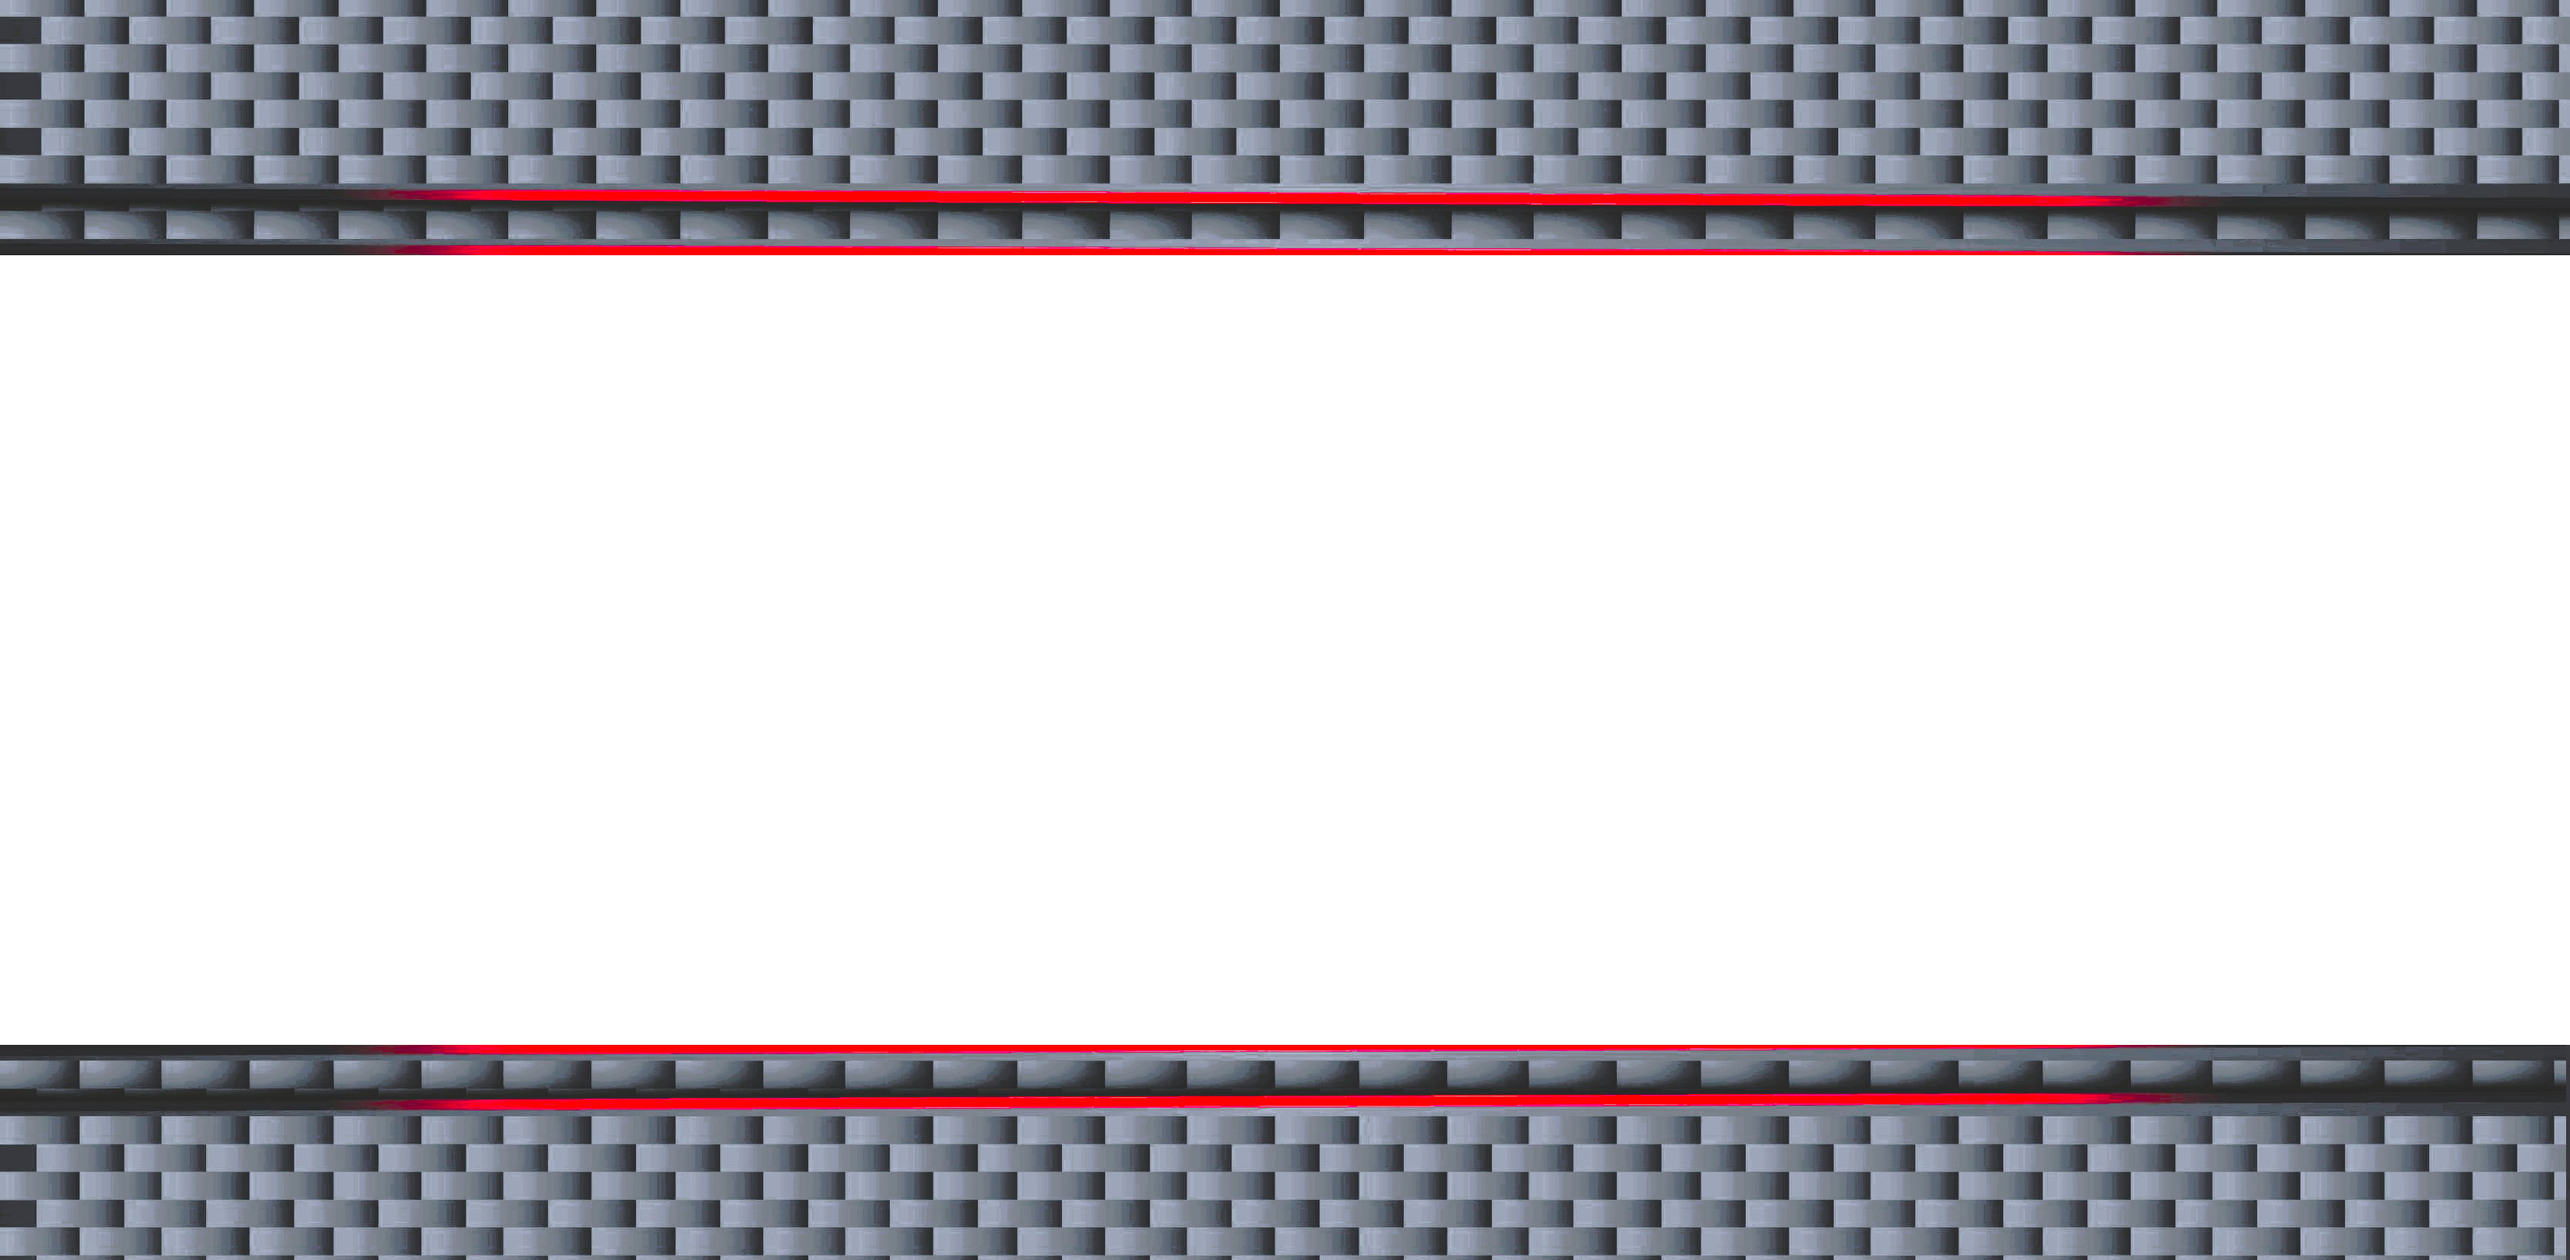
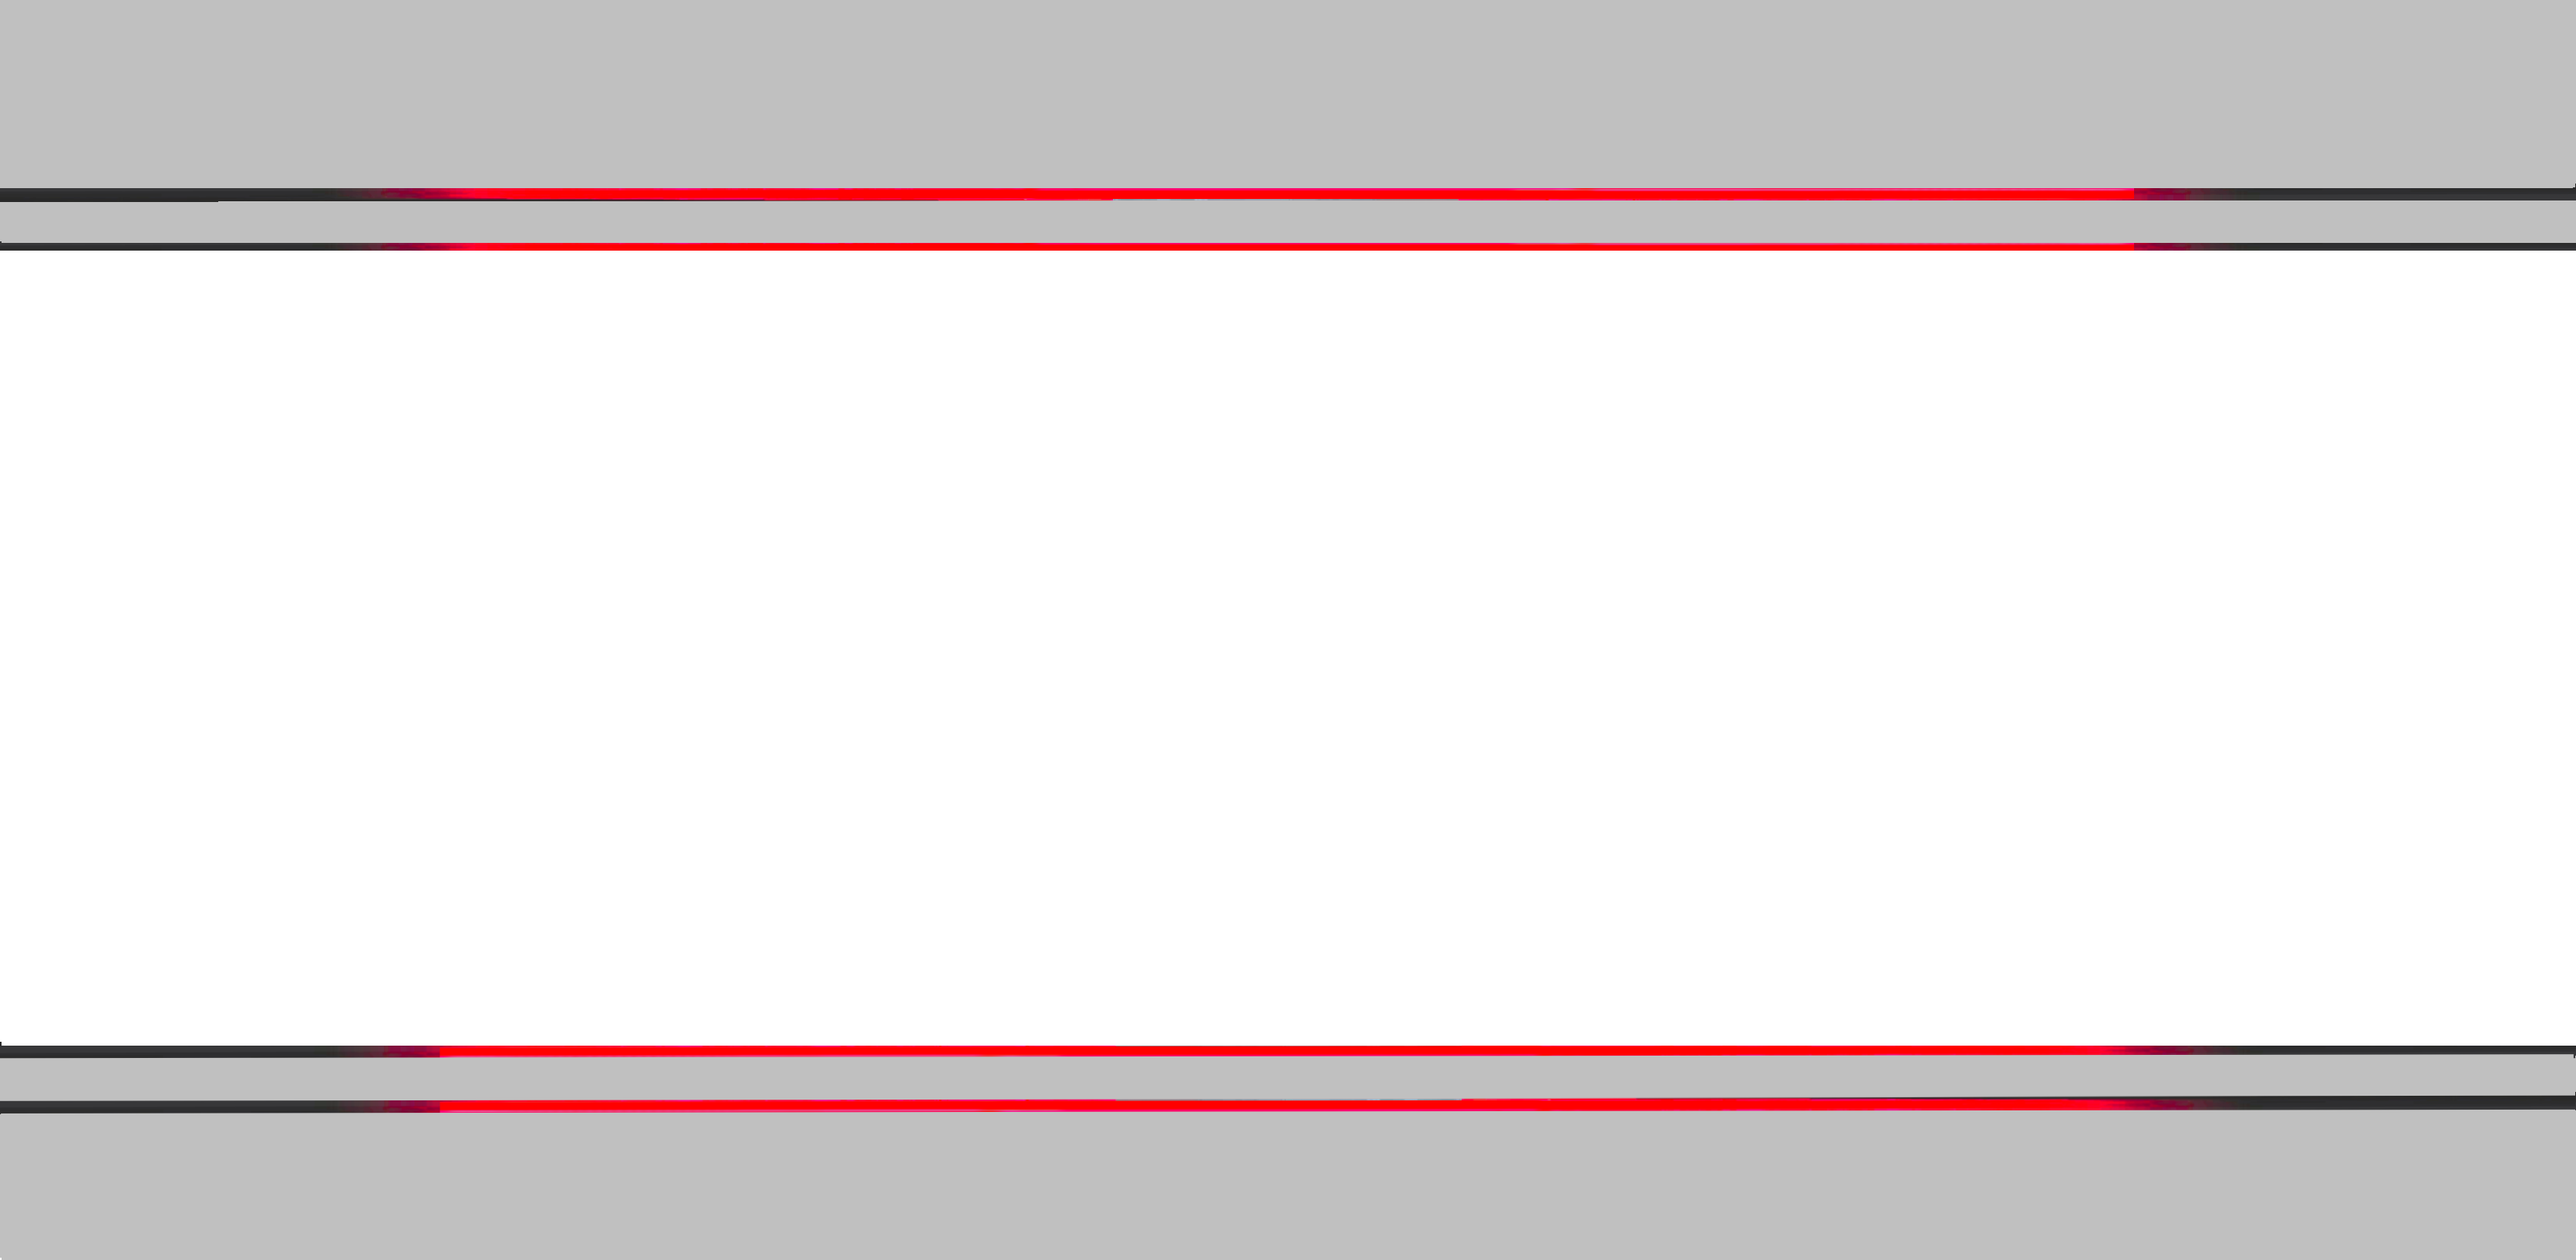
Adding changes

diff --git a/src/components/NavHome.js b/src/components/NavHome.js
@@ -113,9 +113,14 @@ const NavHome = () => {
     <>
       <main
         className={
-          "bg-hero dark:bg-darkHero h-screen -mt-12 lg:min-h-[900px] 2xl:max-h-[1200px] bg-cover bg-no-repeat relative -z-0 selection:bg-red-700 selection:text-white shadow-[0px_15px_25px_10px_rgba(17,20,26,0.65)]"
+          "h-screen -mt-12 lg:min-h-[900px] 2xl:max-h-[1200px] bg-cover bg-no-repeat relative -z-0 selection:bg-red-700 selection:text-white shadow-[0px_15px_25px_10px_rgba(17,20,26,0.65)]"
         }
       >
+        <div className='absolute z-[-2] flex flex-col content-between h-full w-full'>
+          <div className="flex w-full bg-black !min-h-[30%]"></div>
+          <div className="flex w-full bg-transparent min-h-[40%]"></div>
+          <div className="flex w-full bg-black !min-h-[30%]"></div>
+        </div>
         <div className="h-screen mt-12 min-h-[650px] max-h-[750px] w-full bg-gray-700/10 absolute -z-10 select-none"></div>
         <Link href="/">
           <FramerImage

diff --git a/src/app/estadisticas/poc/page.js b/src/app/estadisticas/poc/page.js
@@ -55,9 +55,8 @@ const Home = () => {
               defaulttheme="system"
               src="https://ntppbirpt0001/reports/powerbi/POC/Estadistica%20SAAM?rs:Command=Render&rc:Toolbar=false"
               className='min-h-screen min-w-full rounded-lg shadow-xl shadow-slate-500 forceDark'
-              style={{background: "#C4C4C4", color: "black"}} >
-              <meta name="color-scheme" content="dark"></meta>
-              <Script src="https://ntppbirpt0001/reports/powerbi/POC/Estadistica%20SAAM?rs:Command=Render&rc:Toolbar=false" strategy="afterInteractive" onReady={() => forceDark}/>    
+              style={{background: "#C4C4C4", color: "black"}} onLoadStart={() => forceDark} >
+              <meta name="color-scheme" content="dark"></meta>   
             </iframe>   
         </motion.div>
       </div>
